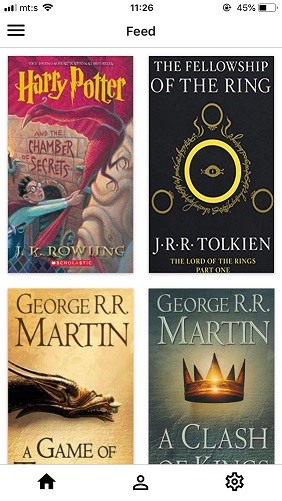
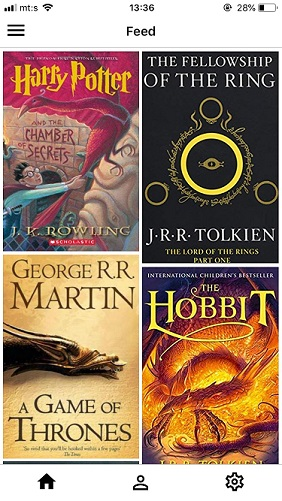
Add masonry layout for book feed screen

diff --git a/src/containers/BookFeed/index.js b/src/containers/BookFeed/index.js
@@ -1,43 +1,31 @@
 import React from 'react';
 import { View, StyleSheet, FlatList } from 'react-native';
+import MasonryList from 'react-native-masonry-list';
 
 import BookCard from '../../components/BookCard';
-import { TouchableOpacity } from 'react-native-gesture-handler';
-
 import { getBooks } from '../../api';
 
 const BookFeed = ({ navigation, ...props }) => {
 
   const books = getBooks();
 
+  onCardPressHandler = (book) => {
+    navigation.push('BookDetails', { book });
+  }
+
   renderBook = (book) => {
     return (
-      <View>
-        <TouchableOpacity
-          activeOpacity={0.7}
-          onPress={onCardPressHandler}
-        >
-          <BookCard
-            coverUrl={book.image}
-            title={book.title}
-          />
-        </TouchableOpacity>
-      </View>
+      <BookCard
+        book={book}
+        onClick={onCardPressHandler}
+      />
     )
   }
 
-  onCardPressHandler = () => {
-    console.log(props);
-  }
 
   return (
     <View style={styles.feed}>
-      <FlatList
-        data={books}
-        keyExtractor={book => book.isbn}
-        numColumns={2}
-        renderItem={({ item }) => renderBook(item)}
-    />
+      <MasonryList onPressImage={onCardPressHandler} images={books} />
     </View>
   )
 };

diff --git a/src/screens/routes.js b/src/screens/routes.js
@@ -14,6 +14,8 @@ import WelcomeScreen from './WelcomeScreen';
 import ProfileScreen from './ProfileScreen';
 import FeedScreen from './FeedScreen';
 import SettingsScreen from './SettingsScreen';
+import BookDetailsScreen from './BookDetailsScreen';
+
 
 // Dashboard Tab Navigation
 const DashboardTabNavigator = createBottomTabNavigator(
@@ -63,7 +65,22 @@ const DashboardTabNavigator = createBottomTabNavigator(
 // Dashboard Stack Navigation
 const DashboardStackNavigator = createStackNavigator(
   {
-    DashboardTabNavigator: DashboardTabNavigator
+    DashboardTabNavigator,
+    BookDetails: {
+      screen: BookDetailsScreen,
+      navigationOptions: ({ navigation }) => {
+        return {
+          headerTitle: navigation.getParam('book').title,
+          headerLeft: (
+            <MaterialIcons 
+              name="keyboard-arrow-left" 
+              size={30} 
+              onPress={() => navigation.pop()}
+              />
+          )
+        }
+      }     
+    }
   },
   {
     defaultNavigationOptions: ({ navigation }) => {

diff --git a/src/components/BookCard/index.js b/src/components/BookCard/index.js
@@ -1,14 +1,24 @@
 import React from 'react';
 import { View, StyleSheet, Image, Dimensions } from 'react-native';
+import { TouchableOpacity } from 'react-native-gesture-handler';
 
-const BookCard = ({ title, coverUrl, ...props }) => {
+const BookCard = ({ book, onClick, ...props }) => {
+
+  onCardPressHandler = () => {
+    onClick(book);
+  }
+
   return (
-    <View style={styles.card}>
-      <Image
-        style={styles.cover}
-        source={{ uri: coverUrl }}
-      />
-    </View>
+    <TouchableOpacity
+      onPress={onCardPressHandler}
+    >
+      <View style={styles.card} >
+        <Image
+          style={styles.cover}
+          source={{ uri: book.image }}
+        />
+      </View>
+    </TouchableOpacity>
   )
 };
 
@@ -23,11 +33,11 @@ const styles = StyleSheet.create({
     shadowColor: "#000",
     shadowOffset: {
       width: 0,
-      height: 1,
+      height: 2,
     },
     shadowOpacity: 0.22,
     shadowRadius: 2.22,
-    elevation: 3
+    elevation: 5
   },
   cover: {
     width: '100%',

diff --git a/src/screens/BookDetailsScreen/index.js b/src/screens/BookDetailsScreen/index.js
@@ -1,0 +1,24 @@
+import React from 'react';
+import { View, StyleSheet } from 'react-native';
+
+import BookDetails from '../../containers/BookDetails';
+
+const BookDetailsScreen = ({ navigation, ...props }) => {
+  const book = navigation.getParam('book');
+
+  return (
+    <View style={styles.container}>
+      <BookDetails book={book}/>
+    </View>
+  )
+};
+
+const styles = StyleSheet.create({
+  container: {
+    flex: 1,
+    justifyContent: 'center',
+    alignItems: 'center'
+  }
+});
+
+export default BookDetailsScreen;

diff --git a/src/containers/BookDetails/index.js b/src/containers/BookDetails/index.js
@@ -1,0 +1,17 @@
+import React from 'react';
+import { View, StyleSheet, Text } from 'react-native';
+
+const BookDetails = ({ book, ...props }) => {
+  return (
+    <View>
+      <Text>{book.isbn}</Text>
+      <Text>{book.title}</Text>
+    </View>
+  )
+};
+
+const styles = StyleSheet.create({
+
+});
+
+export default BookDetails;

diff --git a/src/screens/FeedScreen/index.js b/src/screens/FeedScreen/index.js
@@ -5,7 +5,7 @@ import BookFeed from '../../containers/BookFeed';
 const FeedScreen = ({ ...props }) => {
   return (
     <View style={styles.screen}>
-      <BookFeed />
+      <BookFeed navigation={props.navigation} />
     </View>
   );
 };

diff --git a/src/screens/WelcomeScreen/index.js b/src/screens/WelcomeScreen/index.js
@@ -6,6 +6,7 @@ import {
 } from 'react-native';
 
 const WelcomeScreen = ({ ...props }) => {
+  console.log(props.navigation)
   return (
     <View style={styles.screen}>
       <Text>Welcome Screen!</Text>

diff --git a/App.js b/App.js
@@ -1,6 +1,6 @@
 import React from 'react';
 
-import AppContainer from './src/screens';
+import AppContainer from './src/screens/routes';
 
 const App = ({ ...props }) => {
   return (
